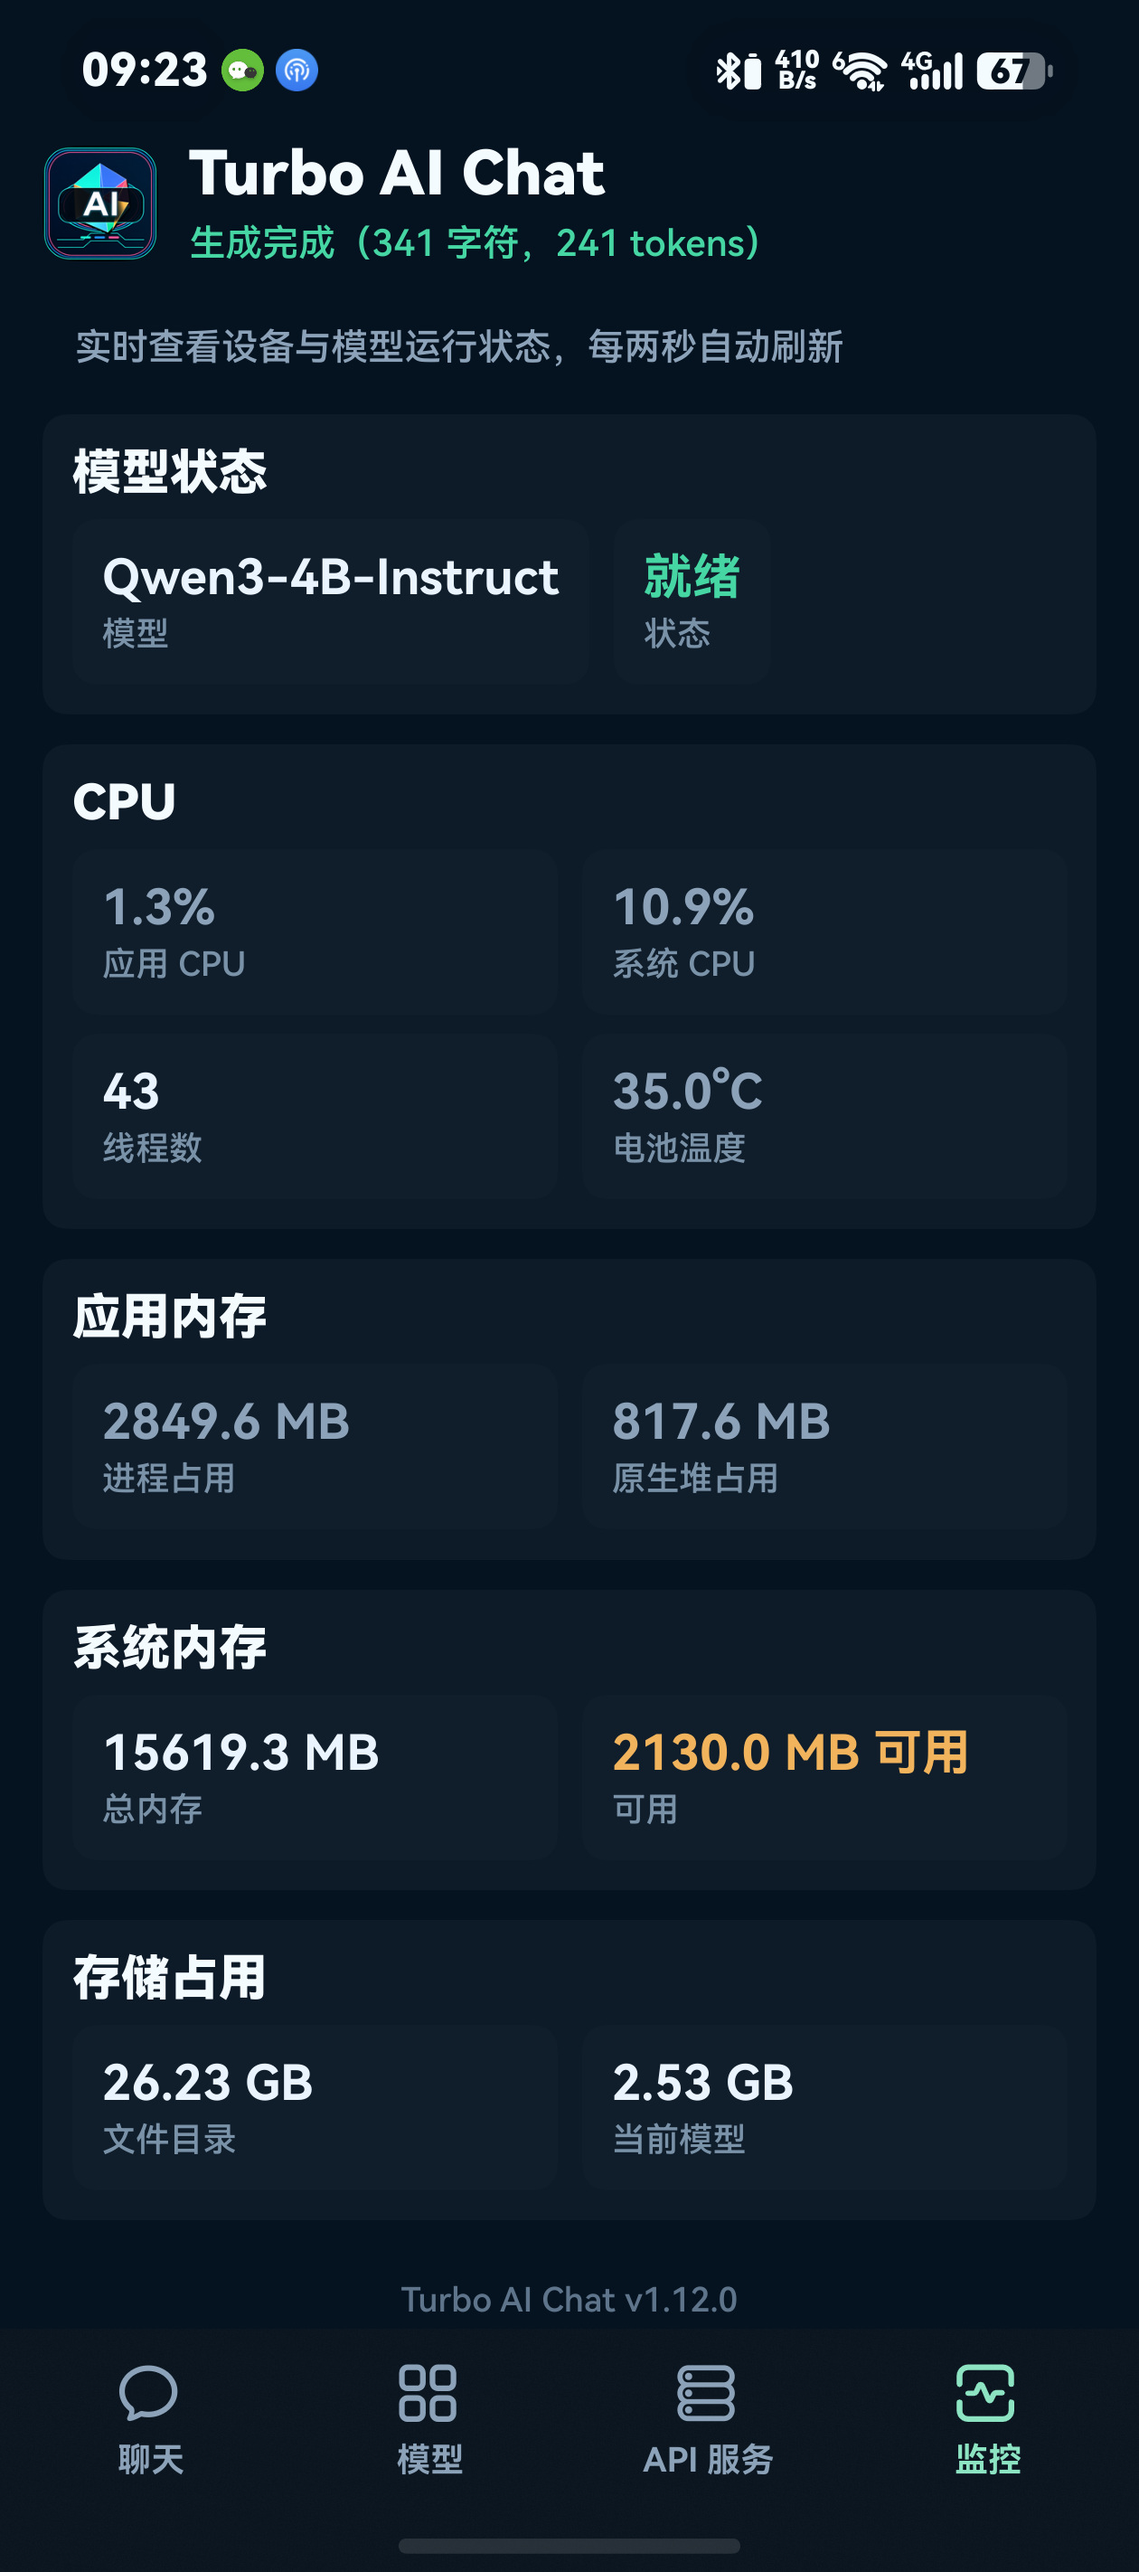
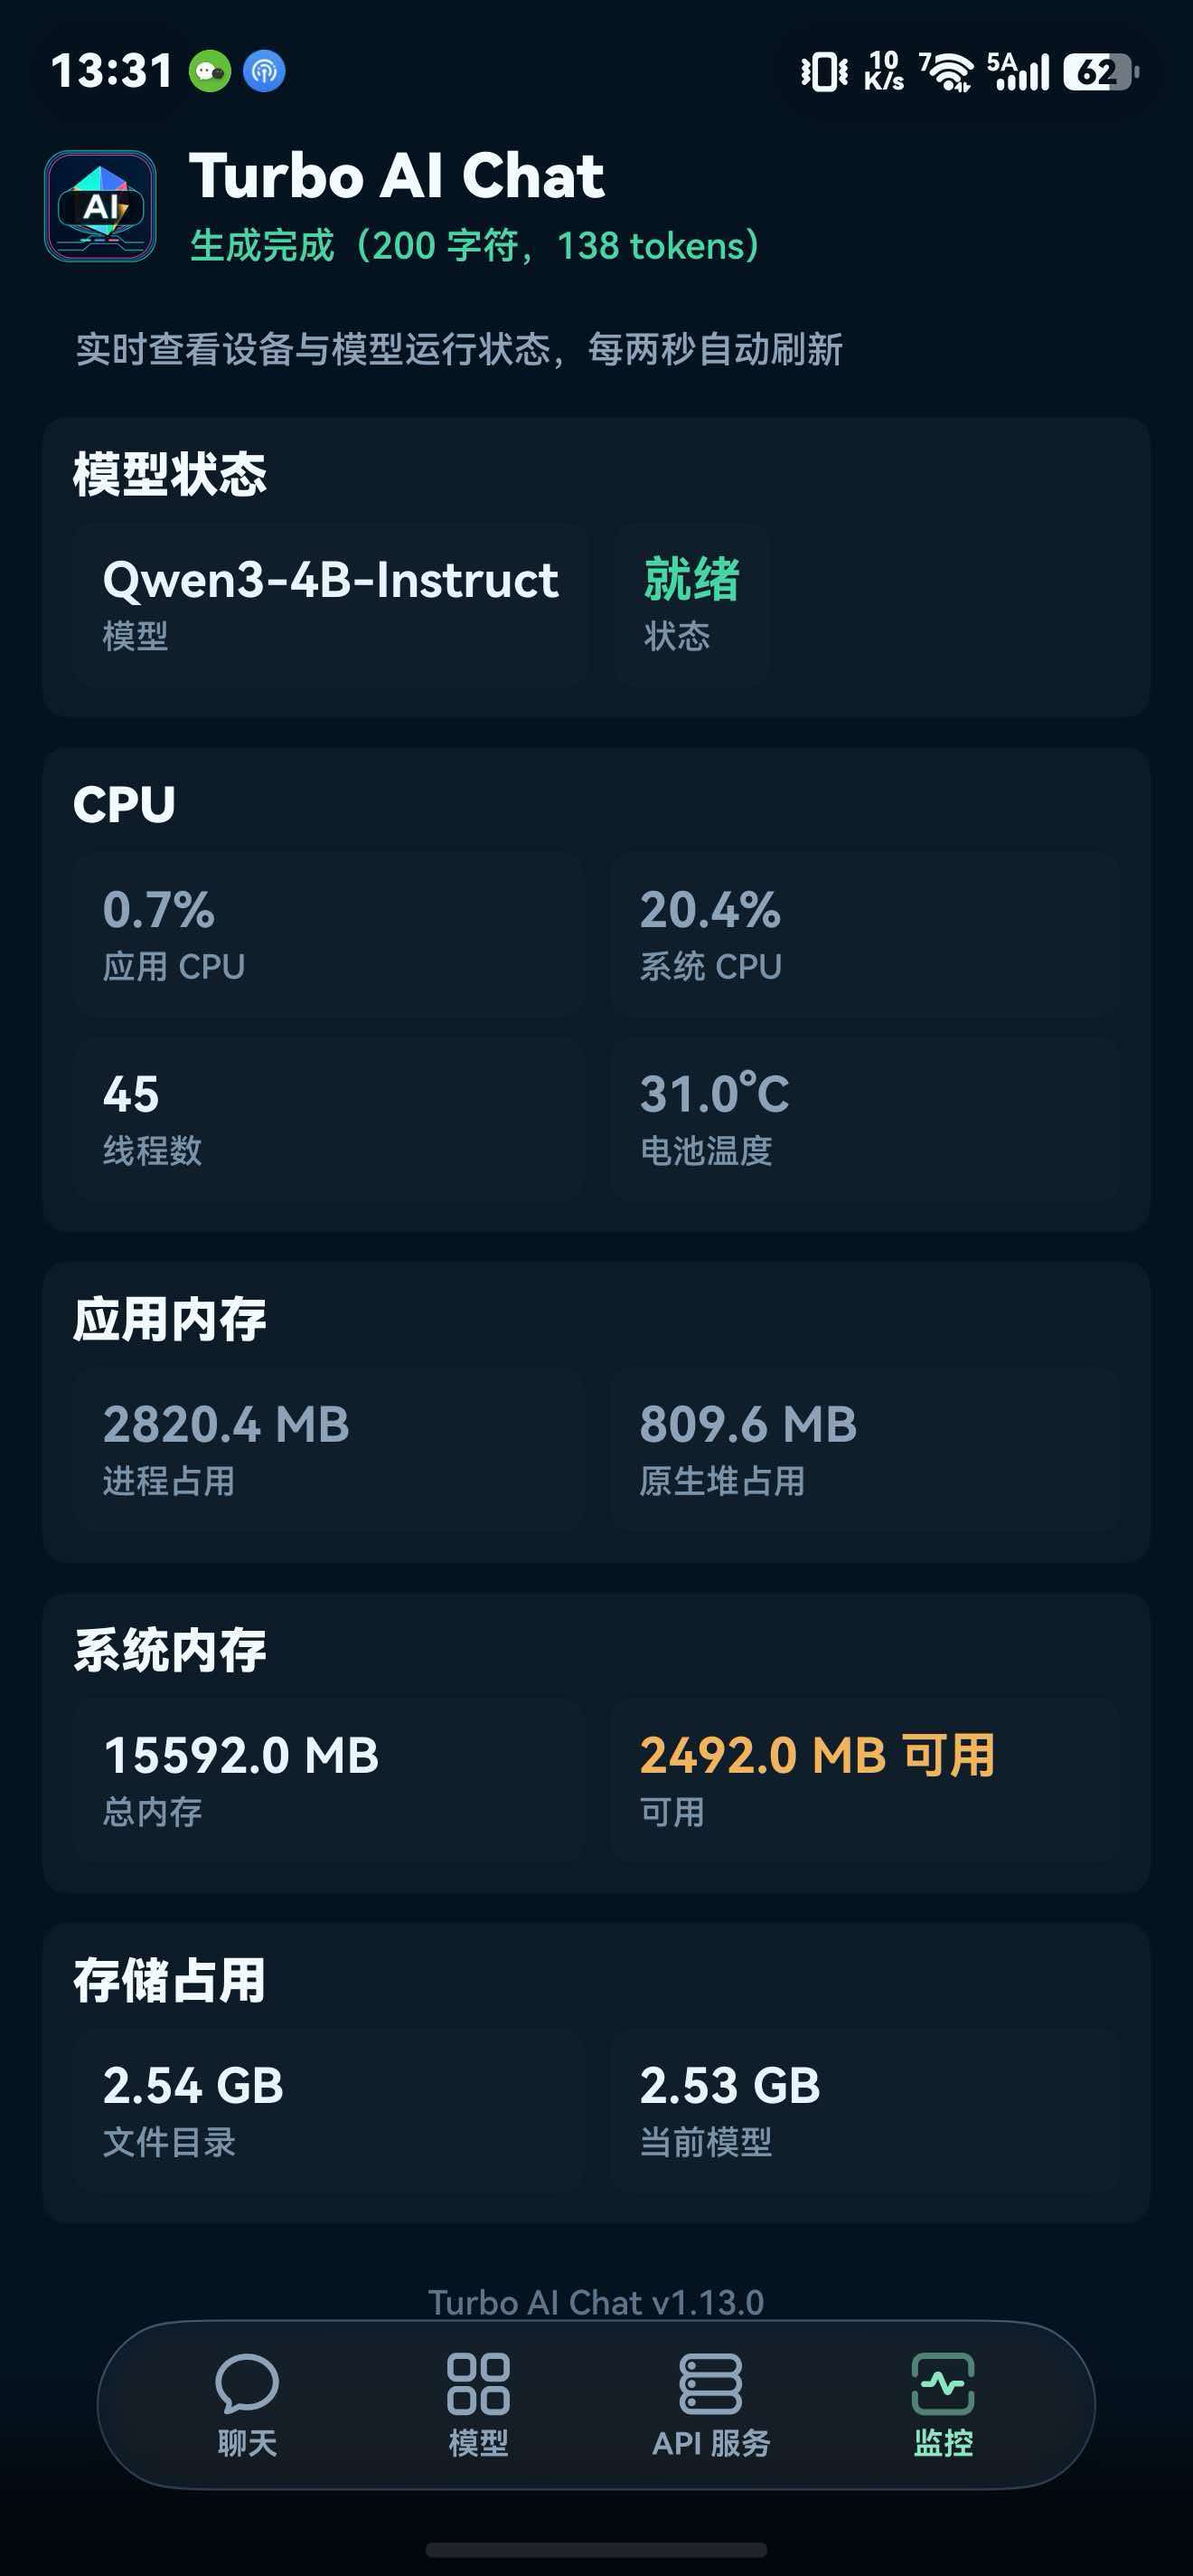
Preserve chat position and refresh phone screenshots

diff --git a/README_EN.md b/README_EN.md
@@ -180,15 +180,15 @@ With a physical keyboard, Enter sends from the chat input and Shift+Enter insert
 ## Features
 
 - Appearance: new installations follow the system. Choose Light, Dark, or System in Settings. Open Settings from the bottom of the sidebar in wide windows, or from the top-left logo menu in narrow windows. The selection is saved; both themes share the same layouts, logo, and launch artwork.
-- Adaptive navigation: bottom tabs in narrow windows and a sidebar in wider windows. On API 26 or later phones, the official immersive bar stays visible in Chat and hides or reappears while scrolling other pages. Monitoring pauses when hidden and preserves its scroll position.
+- Adaptive navigation: bottom tabs in narrow windows and a sidebar in wider windows. On API 26 or later phones, the official immersive bar stays visible in Chat and hides or reappears while scrolling other pages.
 - The PC window title bar provides Chat, Settings, and Help menus for starting a new chat, opening appearance settings, and viewing keyboard shortcuts or the app version. Once opened, hover over another menu heading to switch menus, or press Esc to close. Phone and tablet entry points remain unchanged.
-- The chat runtime strip spans only the page content area and does not shift the sidebar. Wide-screen chat uses the same maximum page width as other tabs, with separate message-width limits for readability.
+- Chat displays app CPU, app memory, and device temperature. Message width is limited on wide screens for readability.
 - The composer keeps the model name and loading state visible. Clicking it before a model is loaded opens the model page. Long-press a message bubble on phones and tablets, or right-click it on PC, to open the Copy entire message menu.
 - Message text supports partial copying: on API 26 or later, use touch handles or a mouse to select across paragraphs, lists, code blocks, and tables within one answer; older systems support selection within one text block. Selections copy visible text, Copy entire message preserves Markdown, and code-block buttons copy code only.
-- The composer starts with one line, grows for long drafts, and expands in place without changing text width or the message list position. Wide tablet and PC windows keep part of the conversation visible. Sending dismisses the on-screen keyboard.
-- Wide model pages place the model list beside its settings. Long-press a handle to reorder by touch, or drag it directly with a mouse. Resizing cancels an active drag without applying its tentative order.
+- The composer starts with one line, grows for long drafts, and can expand or collapse in place.
+- Wide model pages place the model list beside its settings. Long-press a handle to reorder by touch, or drag it directly with a mouse.
 - Monitoring cards switch between one and two columns according to available width, with metrics sharing the space inside each card.
-- Dialogs fit the available window width and allow long body text to scroll. The Model Gallery shrinks when the on-screen keyboard opens, and keyboard focus stays out of the underlying page while a dialog is open.
+- Dialogs fit the available window width and allow long body text to scroll. The Model Gallery shrinks when the on-screen keyboard opens to keep content visible.
 - Local inference: models run on-device, no network required
 - Streaming output: displays the answer as it is generated, without waiting for the full response
 - Stop generation: interrupt the current response while it is streaming
@@ -202,13 +202,13 @@ With a physical keyboard, Enter sends from the chat input and Shift+Enter insert
 - Model management: model-market download, model ordering, and deleting installed model directories
 - Import local MNN models by selecting a folder (where supported), importing a zip, or pushing a directory and scanning it in the app; standard MNN export directories use `jinja.chat_template` from `llm_config.json`
 - OpenAI-compatible API: serve the currently loaded model to Cherry Studio and other LAN clients with streaming output and Bearer authentication
-- Chat history: save conversations and images locally; create, resume, rename, delete, or clear chats. History starts collapsed. Opening history keeps the current model; replies retain their model and timestamp. Uninstalling or clearing app data removes history.
+- Chat history: save conversations and images locally; create, resume, rename, delete, or clear chats. Each reply retains its model and timestamp. Uninstalling or clearing app data removes history.
 
 ## Screenshots
 
-| Chat | Model | Monitor |
-| --- | --- | --- |
-| ![chat](docs/images/chat.jpg) | ![models](docs/images/models.jpg) | ![monitor](docs/images/monitor.jpg) |
+| Chat | Model | Service | Monitor |
+| --- | --- | --- | --- |
+| ![chat](docs/images/chat.jpg) | ![models](docs/images/models.jpg) | ![service](docs/images/service.jpg) | ![monitor](docs/images/monitor.jpg) |
 
 Tablet in landscape:
 

diff --git a/README.md b/README.md
@@ -182,15 +182,15 @@ App 和 HAP 均不内置模型权重。打开 App → 模型页 → 模型广场
 ## 功能
 
 - 外观：新安装默认跟随系统；可在设置中选择浅色模式、深色模式或跟随系统，选择会保留。宽窗口从侧栏底部进入设置，手机窄窗口点击左上角 Logo 菜单进入；两种模式使用相同布局、Logo 和启动图。
-- 自适应导航：窄窗口使用底部标签栏，较宽窗口改为侧栏。API 26 及以上手机使用官方沉浸光感底栏，聊天页常驻，其他页面滚动时自动收起或显示；监控页离开后暂停采样并保留滚动位置。
+- 自适应导航：窄窗口使用底部标签栏，较宽窗口改为侧栏。API 26 及以上手机使用官方沉浸光感底栏，聊天页常驻，其他页面滚动时自动收起或显示。
 - PC 窗口标题栏提供“对话、设置、帮助”菜单，可新建对话、打开外观设置，以及查看快捷键说明和应用版本。展开后，鼠标移到其他菜单项即可切换，按 Esc 关闭；手机和平板保留原有入口。
-- 聊天运行状态条仅占页面内容区，不改变侧栏位置；宽屏聊天区与其他页面采用相同的最大宽度，单条消息另行限宽以便阅读。
+- 聊天页显示应用 CPU、应用内存和设备温度等运行状态；宽屏下限制消息宽度，便于阅读。
 - 输入区常驻显示模型名称与加载状态；未加载时点击输入区会前往模型页。手机和平板长按消息气泡、PC 右键点击气泡可打开“复制整条”菜单。
 - 消息文本支持局部选取复制：API 26 及以上可用触屏手柄或鼠标在同一条回答内跨段落、列表、代码块和表格选取，旧系统保留单个文本块内选取。选区复制可见文字，“复制整条”保留 Markdown，代码块按钮仅复制代码。
-- 输入框从单行起步，长文本自动增高，并可原地展开、收起，文字宽度和聊天列表位置保持不变；平板与 PC 宽窗口保留部分聊天内容。发送后收起软键盘。
-- 模型页在宽窗口下并排显示模型列表与参数区；触屏长按拖动手柄排序，鼠标可直接拖动手柄。调整窗口尺寸会取消正在进行的拖拽，不会提交中途的排序。
+- 输入框从单行起步，长文本自动增高，并可原地展开或收起。
+- 模型页在宽窗口下并排显示模型列表与参数区；触屏长按拖动手柄排序，鼠标可直接拖动手柄。
 - 监控页根据可用宽度切换单列或双列卡片，卡片内的指标自动分配剩余宽度。
-- 弹窗按可用窗口限宽，长正文可滚动；模型广场在软键盘弹出时自动缩小。弹窗打开期间，键盘焦点不会进入底层页面。
+- 弹窗按可用窗口限宽，长正文可滚动；模型广场在软键盘弹出时自动缩小，避免内容被遮挡。
 - 本地推理：模型在设备端运行，无网络依赖
 - 流式输出：边生成边显示回答，无需等待整条回复完成
 - 停止生成：输出过程中可中断本轮回复
@@ -204,13 +204,13 @@ App 和 HAP 均不内置模型权重。打开 App → 模型页 → 模型广场
 - 模型管理：模型广场下载、调整模型排序、删除已安装模型目录
 - 导入本地 MNN 模型：支持选择文件夹（设备支持时）、zip 导入及 hdc 推送目录后扫描注册；正式 MNN 导出目录优先使用 `llm_config.json` 中的 `jinja.chat_template`
 - OpenAI 兼容 API：通过局域网向 Cherry Studio 等客户端提供当前已加载模型，支持流式输出和 Bearer 鉴权
-- 历史对话：本地保存对话与图片，支持新建、继续、重命名、删除和清空。历史栏默认收起；打开历史保持当前模型，消息保留回复模型与时间。卸载或清除应用数据会删除记录。
+- 历史对话：本地保存对话与图片，支持新建、继续、重命名、删除和清空；消息保留各自的回复模型与时间。卸载或清除应用数据会删除记录。
 
 ## 截图
 
-| 聊天界面                          | 模型界面                              | 监控界面                                |
-|-------------------------------|-----------------------------------|-------------------------------------|
-| ![chat](docs/images/chat.jpg) | ![models](docs/images/models.jpg) | ![monitor](docs/images/monitor.jpg) |
+| 聊天界面                          | 模型界面                              | 服务界面                                | 监控界面                                |
+|-------------------------------|-----------------------------------|-------------------------------------|-------------------------------------|
+| ![chat](docs/images/chat.jpg) | ![models](docs/images/models.jpg) | ![service](docs/images/service.jpg) | ![monitor](docs/images/monitor.jpg) |
 
 平板横屏：
 
